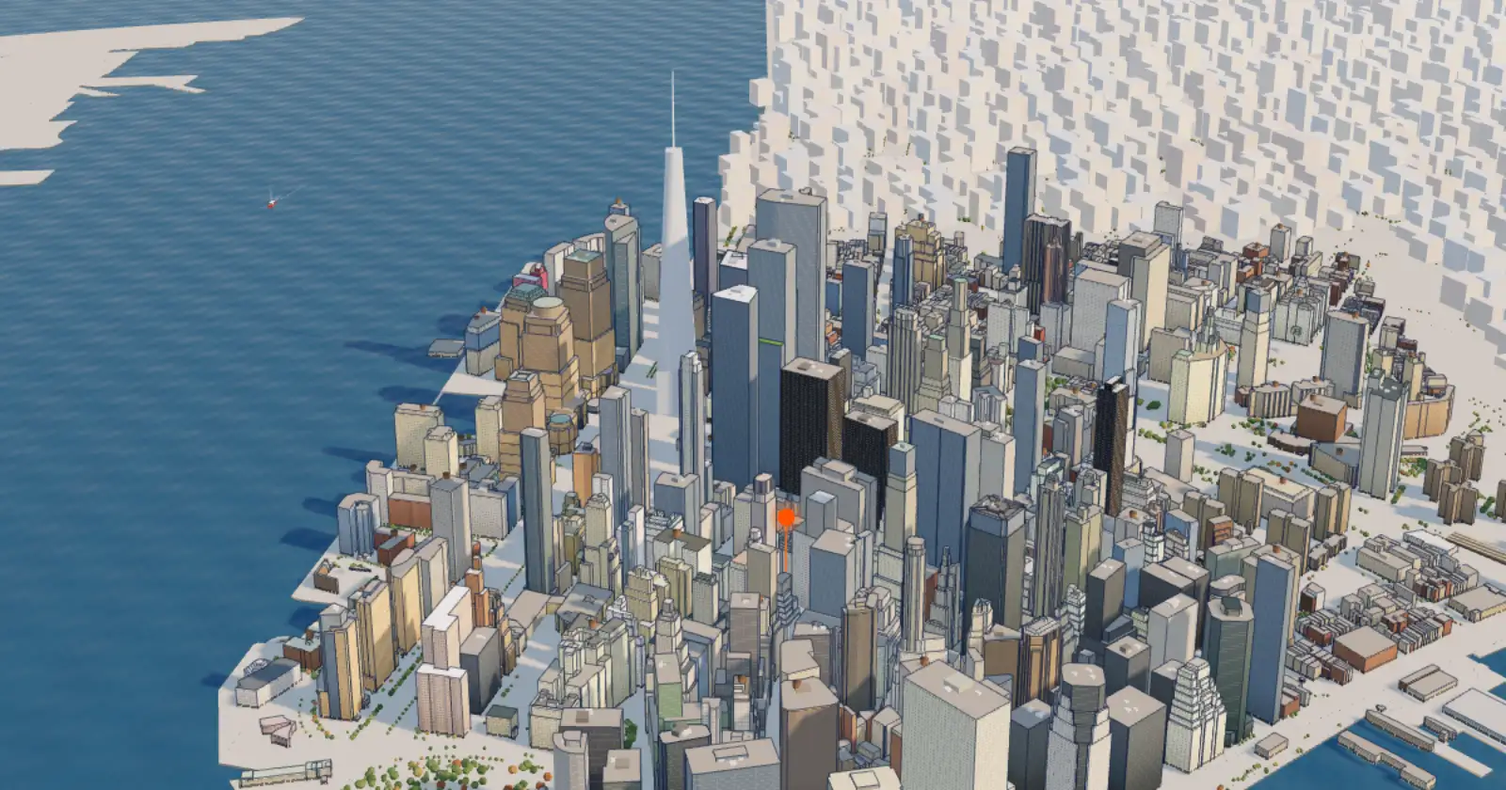
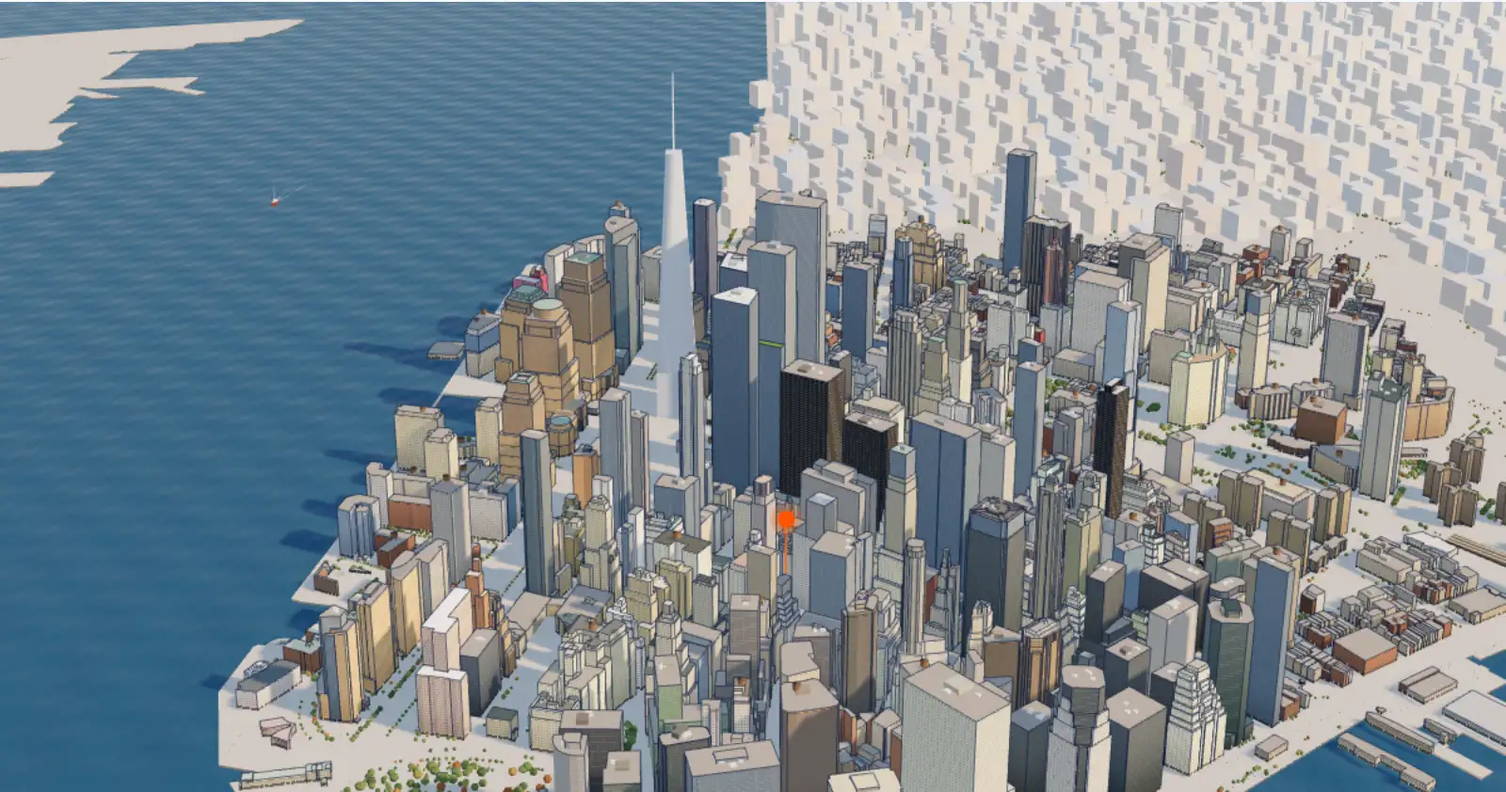
Deploy iter-119: design-review fixes, calculator CTA, consent notes, Pause motion (aerial photo held back pending licence)

diff --git a/index.html b/index.html
@@ -32,7 +32,7 @@
         </nav>
         <div class="nav-cta">
           <a class="nav-login" href="#login">Log in</a>
-          <a class="btn btn-navy btn-sm" href="#lead">Open account</a>
+          <a class="btn btn-orange btn-sm" href="#lead">Start investing</a>
         </div>
     </div>
   </header>
@@ -62,7 +62,7 @@
       <form class="capture" id="lead" novalidate>
         <label class="sr-only" for="mobile">Mobile number</label>
         <span class="capture-cc">+91</span>
-        <input id="mobile" name="mobile" type="tel" inputmode="numeric" autocomplete="tel-national" placeholder="Your mobile number" aria-describedby="lead-error" required>
+        <input id="mobile" name="mobile" type="tel" inputmode="numeric" autocomplete="tel-national" placeholder="Your mobile number" aria-describedby="lead-error lead-note" required>
         <button class="btn btn-orange" type="submit">Start investing</button>
       </form>
       <p class="capture-error" id="lead-error" role="alert" hidden>Enter a 10-digit mobile number.</p>
@@ -73,6 +73,7 @@
         </div>
         <button class="btn btn-ghost btn-sm" type="button" id="edit-number">Edit number</button>
       </div>
+      <p class="capture-note" id="lead-note">We’ll send your account-opening link to this number. No spam: by continuing you agree to be contacted about your account, as set out in our <a href="#privacy">Privacy&nbsp;Policy</a>.</p>
 
       <p class="live">
         <span class="live-dot" id="mkt-dot"></span>
@@ -85,14 +86,15 @@
         <li><b><svg viewBox="0 0 24 24" aria-hidden="true"><path d="M12 2.8 4.5 5.6v5.6c0 4.6 3.1 8.6 7.5 10 4.4-1.4 7.5-5.4 7.5-10V5.6Z"/><path d="m8.6 12.2 2.4 2.4 4.5-4.6"/></svg>IFSCA</b><span>regulated · GIFT City</span></li>
       </ul>
     </div>
+    <button class="motion-toggle" type="button" aria-pressed="false"><svg class="mt-icon" viewBox="0 0 16 16" aria-hidden="true"><path class="mt-pause" d="M5 3.5v9M11 3.5v9"/><path class="mt-play" d="M5 3.5 12.5 8 5 12.5Z"/></svg><span class="mt-label">Pause motion</span></button>
   </section>
 
   <!-- ============ BRANDS + PROOF ============ -->
-  <section class="section brands">
+  <section class="section brands" id="brands">
     <div class="wrap">
     </div>
     <div class="ticker">
-      <div class="ticker-head wrap"><p class="ticker-title" id="ticker-title">Invest in the brands you use every day</p><p class="ticker-note">Illustrative prices, not live quotes</p></div>
+      <div class="ticker-head wrap"><p class="ticker-title" id="ticker-title">Invest in the brands you use every day <span class="ticker-note">· Illustrative prices, not live quotes</span></p></div>
       <div class="ticker-viewport" role="region" aria-labelledby="ticker-title" tabindex="0">
         <div class="ticker-track">
           <ul><li><span class="logo" data-logo="apple"></span><b>Apple</b><span class="ticker-sym">AAPL</span></li><li><span class="logo" data-logo="nvidia"></span><b>NVIDIA</b><span class="ticker-sym">NVDA</span></li><li><span class="logo" data-logo="google"></span><b>Alphabet</b><span class="ticker-sym">GOOGL</span></li><li><span class="logo" data-logo="amazon"></span><b>Amazon</b><span class="ticker-sym">AMZN</span></li><li><span class="logo" data-logo="tesla"></span><b>Tesla</b><span class="ticker-sym">TSLA</span></li><li><span class="logo" data-logo="meta"></span><b>Meta</b><span class="ticker-sym">META</span></li><li><span class="logo" data-logo="netflix"></span><b>Netflix</b><span class="ticker-sym">NFLX</span></li><li><span class="logo logo-wide" data-logo="visa"></span><b>Visa</b><span class="ticker-sym">V</span></li><li><span class="logo" data-logo="broadcom"></span><b>Broadcom</b><span class="ticker-sym">AVGO</span></li><li><span class="logo" data-logo="mastercard"></span><b>Mastercard</b><span class="ticker-sym">MA</span></li><li><span class="logo" data-logo="cocacola"></span><b>Coca-Cola</b><span class="ticker-sym">KO</span></li><li><span class="logo" data-logo="starbucks"></span><b>Starbucks</b><span class="ticker-sym">SBUX</span></li><li><span class="logo" data-logo="mcdonalds"></span><b>McDonald’s</b><span class="ticker-sym">MCD</span></li><li><span class="logo logo-wide" data-logo="goldmansachs"></span><b>Goldman Sachs</b><span class="ticker-sym">GS</span></li><li><span class="logo" data-logo="americanexpress"></span><b>American Express</b><span class="ticker-sym">AXP</span></li><li><span class="logo" data-logo="bankofamerica"></span><b>Bank of America</b><span class="ticker-sym">BAC</span></li></ul>
@@ -113,7 +115,7 @@
       <figure class="session">
         <div class="session-top">
           <p class="session-status"><span class="live-dot" data-market-dot></span><b data-bind="statusShort">—</b></p>
-          <p class="session-idx">S&amp;P&nbsp;500 <span class="tk-ch" id="sess-ch">—</span></p>
+          <p class="session-idx">Sample session <span class="tk-ch" id="sess-ch">—</span></p>
         </div>
         <div class="session-plot">
           <svg class="session-chart" viewBox="0 0 1000 240" preserveAspectRatio="none" aria-hidden="true">
@@ -185,7 +187,7 @@
       <svg width="0" height="0" style="position:absolute" aria-hidden="true"><defs><linearGradient id="ring-grad" x1="0" y1="0" x2="1" y2="1"><stop offset="0" stop-color="#ff5400"/><stop offset="1" stop-color="#ff9a5c"/></linearGradient></defs></svg>
       <svg class="money-flow" viewBox="0 0 176 96" aria-hidden="true"><path d="M4 18 C 84 18, 92 78, 172 78"/><circle r="4"><animateMotion dur="2.2s" repeatCount="indefinite" path="M4 18 C 84 18, 92 78, 172 78"/></circle></svg>
       <div class="calc">
-        <div class="calc-top"><p class="calc-kicker">Fractional calculator</p><span class="frac-live"><span class="live-dot is-open"></span>Live preview</span></div>
+        <div class="calc-top"><p class="calc-kicker">Fractional calculator</p><span class="frac-live">Try it</span></div>
         <label class="calc-input" for="calc-amt"><span class="calc-label">If I invest</span><span class="calc-field"><span class="calc-cur">$</span><input id="calc-amt" type="text" inputmode="decimal" autocomplete="off" value="25" aria-describedby="calc-hint" maxlength="9"></span></label>
         <p class="calc-hint" id="calc-hint">≈ ₹<span data-bind="amtInrFinal">2,100</span> · type any amount from $1</p>
         <div class="calc-result" aria-live="polite">
@@ -198,9 +200,13 @@
             <span class="calc-px"><span data-bind="sym">NVDA</span> at $<span data-bind="px">181.40</span> a share<span class="calc-whole" data-bind="wholeNote"></span></span>
           </div>
         </div>
+        <div class="calc-go">
+          <a class="btn btn-orange calc-cta" href="#lead" id="calc-cta"><span>Start with $<span data-bind="amtFinal">25</span> in <span data-bind="stockName">NVIDIA</span></span></a>
+          <span class="calc-go-note">Free account · about 10 minutes</span>
+        </div>
         <p class="calc-pick-label">Same amount, other leaders · tap to switch</p>
         <div class="calc-pick" id="calc-pick" role="radiogroup" aria-label="Choose a company"></div>
-        <p class="fine">Reference prices, for illustration. Live prices in the app.</p>
+        <p class="fine">Reference prices, for illustration; live prices in the app. US stocks carry market and currency risk, and you can get back less than you invest.</p>
       </div>
       </div>
       <div class="product-copy">
@@ -240,7 +246,7 @@
   </section>
 
   <!-- ============ WHY ============ -->
-  <section class="section why">
+  <section class="section why" id="why">
     <div class="wrap">
       <div class="section-head">
         <p class="eyebrow">Why invest in the US</p>
@@ -261,7 +267,7 @@
         </article>
         <article class="tile tile-wide tile-warm">
           <span class="tile-fx" aria-hidden="true">₹ <i>→</i> $</span>
-          <div><h3>Hold part of your wealth in dollars</h3><p>Dollar assets cushion rupee depreciation and help with goals priced in dollars, like a child’s education abroad.</p></div>
+          <div><h3>Hold part of your wealth in dollars</h3><p>Dollar assets cushion rupee depreciation and help with goals priced in dollars, like a child’s education abroad. If the rupee strengthens instead, returns in rupees are lower.</p></div>
         </article>
         <div class="tile tile-fig"><span class="stat-num"><span class="nowrap">1–2&nbsp;days</span></span><span class="stat-label">Withdrawals credited to your Indian bank</span></div>
         <div class="tile tile-fig"><span class="stat-num">$250K</span><span class="stat-label">Yearly limit under RBI’s LRS</span></div>
@@ -277,7 +283,7 @@
           <p class="eyebrow">How it works</p>
           <h2 class="h2">Four steps to your first US stock.</h2>
         </div>
-        <a class="btn btn-orange" href="#lead">Open account</a>
+        <a class="btn btn-orange" href="#lead">Start investing</a>
       </div>
       <div class="eligibility" role="group" aria-label="Who can invest">
         <p class="eligibility-title">Who can invest</p>
@@ -327,7 +333,7 @@
   </section>
 
   <!-- ============ TRUST + ORDERS ============ -->
-  <section class="section trust">
+  <section class="section trust" id="trust">
     <div class="wrap">
       <div class="trust-split">
         <div class="section-head trust-head">
@@ -354,7 +360,7 @@
   </section>
 
   <!-- ============ POPULAR ============ -->
-  <section class="section popular">
+  <section class="section popular" id="popular">
     <div class="wrap">
       <div class="section-head section-head-row">
         <div>
@@ -431,7 +437,7 @@
             <li><strong>Transparent pricing, no hidden charges</strong><span>The full schedule is public. Your bank’s remittance charges are its own.</span></li>
             <li><strong>Dedicated support</strong><span>A global-investing desk for onboarding, remittance and tax documents.</span></li>
           </ul>
-          <a class="btn btn-orange pricing-cta" href="#lead">Open account</a>
+          <a class="btn btn-orange pricing-cta" href="#lead">Start investing</a>
           </div>
         </div>
       <div class="prices">
@@ -503,14 +509,14 @@
   </section>
 
   <!-- ============ CTA ============ -->
-  <section class="cta">
+  <section class="cta" id="start">
     <div class="wrap cta-inner">
       <h2 class="h2">Be in the market when the bell rings.</h2>
       <p class="lead">Open your global account tonight. Once you’re verified, start with $1 in any US session.</p>
       <form class="capture cta-capture" id="lead-2" novalidate>
         <label class="sr-only" for="mobile-2">Mobile number</label>
         <span class="capture-cc">+91</span>
-        <input id="mobile-2" name="mobile" type="tel" inputmode="numeric" autocomplete="tel-national" placeholder="Your mobile number" aria-describedby="lead-2-error" required>
+        <input id="mobile-2" name="mobile" type="tel" inputmode="numeric" autocomplete="tel-national" placeholder="Your mobile number" aria-describedby="lead-2-error lead-2-note" required>
         <button class="btn btn-orange" type="submit">Start investing</button>
       </form>
       <p class="capture-error" id="lead-2-error" role="alert" hidden>Enter a 10-digit mobile number.</p>
@@ -521,6 +527,7 @@
         </div>
         <button class="btn btn-ghost btn-sm" type="button" id="edit-number-2">Edit number</button>
       </div>
+      <p class="capture-note" id="lead-2-note">We’ll send your account-opening link to this number. No spam: by continuing you agree to be contacted about your account, as set out in our <a href="#privacy">Privacy&nbsp;Policy</a>.</p>
       <ul class="cta-benefits"><li>Paperless onboarding</li><li>Fractional investing</li><li>One app for India and US</li><li>Dedicated support</li></ul>
     </div>
   </section>
@@ -539,13 +546,14 @@
         <nav aria-label="Learn"><h3>Learn</h3><a href="#how">How it works</a><a href="#tax">Tax guide</a><a href="#faq">FAQs</a></nav>
         <nav aria-label="Legal"><h3>Legal</h3><a href="#terms">Terms</a><a href="#privacy">Privacy</a><a href="#disclosures">Disclosures</a><a href="#charges">Schedule of charges</a></nav>
       </div>
+      <p class="footer-motion"><button class="motion-toggle" type="button" aria-pressed="false"><svg class="mt-icon" viewBox="0 0 16 16" aria-hidden="true"><path class="mt-pause" d="M5 3.5v9M11 3.5v9"/><path class="mt-play" d="M5 3.5 12.5 8 5 12.5Z"/></svg><span class="mt-label">Pause motion</span></button></p>
       <p class="footer-fine">IFSCA Broker Dealer Registration No. [REGISTRATION NUMBER] · [REGISTERED OFFICE ADDRESS]. Investments in securities markets are subject to market risks. Read all related documents carefully before investing. Brand names and logos are for identification only and do not imply endorsement. Map data © OpenStreetMap contributors, available under the Open Database License. © 2026 Mirae Asset Capital Markets (IFSC) Private Limited.</p>
     </div>
   </footer>
 
   <div class="dock" id="dock" aria-hidden="true">
     <div class="dock-text"><strong>US stocks from $1</strong><span>₹0 account opening</span></div>
-    <a class="btn btn-orange btn-sm" href="#lead" tabindex="-1">Open account</a>
+    <a class="btn btn-orange btn-sm" href="#lead" tabindex="-1">Start investing</a>
   </div>
 
   <script type="module" src="/src/main.js"></script>

diff --git a/src/main.js b/src/main.js
@@ -4,6 +4,20 @@ import { marketStatus, cityTime, usSessionInIST, istClock, formatWait, REF_PRICE
 const $ = (s, root = document) => root.querySelector(s);
 const bind = (key, value) => document.querySelectorAll(`[data-bind="${key}"]`).forEach((el) => { el.textContent = value; });
 const reducedMotion = matchMedia('(prefers-reduced-motion: reduce)').matches;
+// ---------- Pause motion (WCAG 2.2.2): one switch stops every loop — CSS animations, the 3D harbour, the ticking prices.
+// Remembered per visitor; reduced-motion visitors start paused.
+const root = document.documentElement;
+const motionPaused = () => root.classList.contains('motion-paused');
+const setMotion = (paused) => {
+  root.classList.toggle('motion-paused', paused);
+  document.querySelectorAll('.motion-toggle').forEach((b) => { b.setAttribute('aria-pressed', String(paused)); b.querySelector('.mt-label').textContent = paused ? 'Play motion' : 'Pause motion'; });
+  window.dispatchEvent(new Event('motionchange'));
+  try { localStorage.setItem('motion-paused', paused ? '1' : '0'); } catch {}
+};
+let savedMotion = null;
+try { savedMotion = localStorage.getItem('motion-paused'); } catch {}
+setMotion(savedMotion === '1');
+document.querySelectorAll('.motion-toggle').forEach((b) => b.addEventListener('click', () => setMotion(!motionPaused())));
 document.documentElement.classList.add('js'); // reveal styles only apply when JS can undo them
 
 // ---------- Hero city
@@ -78,7 +92,7 @@ tickerItems.forEach((it) => paintQuote(it));
 let tickerOn = false;
 new IntersectionObserver(([e]) => { tickerOn = e.isIntersecting; }).observe($('.ticker'));
 setInterval(() => {
-  if (!tickerOn || document.hidden) return;
+  if (!tickerOn || document.hidden || motionPaused()) return;
   for (const sym of Object.keys(quotes).sort(() => Math.random() - 0.5).slice(0, 3)) { // a few trades per beat, like a real tape
     const q = quotes[sym], step = (Math.random() - 0.5) * 0.004;
     q.px *= 1 + step;
@@ -150,6 +164,7 @@ setInterval(tick, 20_000);
 // ---------- Funnel analytics. Events go to window.dataLayer (Google Tag Manager's standard queue), so whichever
 // analytics/A-B tool mStock uses can read them; no third-party script is loaded here. Never includes the number.
 window.dataLayer = window.dataLayer || [];
+const calcContext = {}; // set once the visitor uses the calculator: { calc_amount, calc_sym } ride along with the lead
 const track = (event, props = {}) => window.dataLayer.push({ event, ...props, variant: document.documentElement.dataset.variant || 'default' });
 const seen = new Set();
 const leadViews = new IntersectionObserver((entries) => entries.forEach((e) => {
@@ -165,9 +180,9 @@ function setupCapture(formSel, sentSel, errorSel, editSel) {
     const valid = /^[6-9]\d{9}$/.test(digits);
     error.hidden = valid;
     field.setAttribute('aria-invalid', String(!valid));
-    track(valid ? 'lead_submit_valid' : 'lead_submit_invalid', { form: form.id });
+    track(valid ? 'lead_submit_valid' : 'lead_submit_invalid', { form: form.id, ...calcContext });
     if (!valid) { field.focus(); return; }
-    // TODO(lead-endpoint): fetch('/api/leads', { method: 'POST', body: JSON.stringify({ mobile: digits, source: form.id }) })
+    // TODO(lead-endpoint): fetch('/api/leads', { method: 'POST', body: JSON.stringify({ mobile: digits, source: form.id, ...calcContext }) })
     form.hidden = true;
     sent.hidden = false;
   });
@@ -237,7 +252,7 @@ function renderAmount() {
 }
 chips.addEventListener('click', (e) => {
   const b = e.target.closest('button');
-  if (b) { amount = Number(b.dataset.v); renderAmount(); paintFrac(amount, true); $('#calc-amt').value = String(amount); }
+  if (b) { amount = Number(b.dataset.v); renderAmount(); paintFrac(amount, true); $('#calc-amt').value = String(amount); noteCalc('amount_chip'); }
 });
 paintAmount(amount);
 renderAmount();
@@ -270,7 +285,18 @@ function paintFrac(v, pop) {
   });
   if (pop && !reducedMotion) { const f1 = $('.f1'); f1.classList.remove('pop'); void f1.offsetWidth; f1.classList.add('pop'); }
 }
-pick.addEventListener('click', (e) => { const b = e.target.closest('button'); if (b) { sel = b.dataset.sym; paintFrac(amount, true); } });
+pick.addEventListener('click', (e) => { const b = e.target.closest('button'); if (b) { sel = b.dataset.sym; paintFrac(amount, true); noteCalc('calc_pick'); } });
+// Calculator events: what people try is a leading signal for who signs up (and which stocks to lead with).
+const noteCalc = (event) => { Object.assign(calcContext, { calc_amount: amount, calc_sym: sel }); track(event, { amount, sym: sel }); };
+let calcTimer = 0;
+// The calculator's answer leads straight to the form: the amount and stock travel with the lead.
+$('#calc-cta').addEventListener('click', (e) => {
+  e.preventDefault();
+  noteCalc('calc_cta_click');
+  const form = $('#lead'), field = $('#mobile');
+  form.scrollIntoView({ behavior: reducedMotion ? 'auto' : 'smooth', block: 'center' });
+  setTimeout(() => { field.focus({ preventScroll: true }); form.classList.add('is-primed'); setTimeout(() => form.classList.remove('is-primed'), 1600); }, reducedMotion ? 0 : 600);
+});
 // Typed amounts: digits and one decimal point, $1 to $1,000,000 (the order minimum and a sane ceiling).
 const calcIn = $('#calc-amt');
 calcIn.addEventListener('input', () => {
@@ -282,6 +308,7 @@ calcIn.addEventListener('input', () => {
   $('#calc-hint').lastChild.textContent = ok ? ' · type any amount from $1' : ' · the minimum is $1';
   if (!ok) return;
   amount = v; renderAmount(); paintFrac(v);
+  clearTimeout(calcTimer); calcTimer = setTimeout(() => noteCalc('calc_input'), 900); // once the visitor stops typing
 });
 calcIn.addEventListener('blur', () => { if (!(Number(calcIn.value) >= 1)) { calcIn.value = String(amount); calcIn.closest('.calc').classList.remove('is-invalid'); $('#calc-hint').lastChild.textContent = ' · type any amount from $1'; } });
 paintFrac(amount);
@@ -408,5 +435,21 @@ faqList.addEventListener('click', (e) => {
   if (!q) return;
   const open = q.getAttribute('aria-expanded') === 'true';
   q.setAttribute('aria-expanded', String(!open));
+  if (!open) track('faq_open', { question: q.textContent.trim().slice(0, 80) });
   document.getElementById(q.getAttribute('aria-controls')).classList.toggle('is-open', !open);
+});
+
+// ---------- Engagement events: which sections are seen, how far people scroll, which buttons lead to the form.
+const sectionSeen = new IntersectionObserver((entries, obs) => entries.forEach((e) => {
+  if (e.isIntersecting) { track('section_view', { section: e.target.id }); obs.unobserve(e.target); }
+}), { threshold: 0.35 });
+document.querySelectorAll('main section[id]').forEach((sec) => sectionSeen.observe(sec));
+const depths = [25, 50, 75, 100];
+window.addEventListener('scroll', () => {
+  const pct = ((window.scrollY + window.innerHeight) / document.documentElement.scrollHeight) * 100;
+  while (depths.length && pct >= depths[0] - 0.5) track('scroll_depth', { percent: depths.shift() });
+}, { passive: true });
+document.addEventListener('click', (e) => {
+  const a = e.target.closest('a[href="#lead"], a[href="#lead-2"]');
+  if (a && a.id !== 'calc-cta') track('cta_click', { label: a.textContent.trim().slice(0, 40), from: a.closest('section[id], header, footer')?.id || a.closest('header, footer')?.tagName.toLowerCase() || 'page' });
 });

diff --git a/src/style.css b/src/style.css
@@ -1120,3 +1120,58 @@ main > section:not(.hero):not(.how-dark):not(.pricing):not(.cta), body > .footer
 .proof-cards span { font-size: 13px; font-weight: 600; color: var(--slate); }
 @media (max-width: 560px) { .hero-copy > .proof-cards { gap: 8px; } .proof-cards li { padding: 10px 6px; border-radius: 14px; } .proof-cards b { font-size: 19px; } .proof-cards svg { width: 17px; height: 17px; } .proof-cards span { font-size: 11px; text-align: center; } }
 /* the water meets the page on an eased curve (no visible band) */
+
+/* iter-118: say what happens before the number is given (and get consent); the calculator hands off to the form. */
+.capture-note { margin: 10px auto 0; max-width: 560px; font-size: 12px; line-height: 1.5; color: var(--muted); }
+.capture-note a { color: inherit; text-decoration: underline; text-underline-offset: 2px; }
+#lead[hidden] ~ .capture-note, #lead-2[hidden] ~ .capture-note { display: none; } /* gone once the number is sent */
+.cta .capture-note { margin-left: 0; color: var(--on-dark-3); }
+.calc-go { display: flex; align-items: center; gap: 14px; flex-wrap: wrap; margin: 4px 0 4px; }
+.calc-cta { padding-inline: 22px; }
+.calc-go-note { font-size: 13px; font-weight: 600; color: var(--slate); }
+.capture.is-primed { box-shadow: 0 0 0 3px rgba(255, 84, 0, 0.35), var(--card-shadow); transition: box-shadow 0.4s; }
+@media (max-width: 560px) { .calc-cta { width: 100%; justify-content: center; } }
+
+/* iter-119: design-review fixes. */
+/* #2 focus stays visible on every navy surface */
+.board :focus-visible, .tile-lead :focus-visible, .dock :focus-visible { outline-color: var(--orange); }
+/* #4 one switch pauses everything; decorative loops also stop on their own after a few cycles */
+.motion-paused *, .motion-paused *::before, .motion-paused *::after { animation-play-state: paused !important; }
+.tile-marks .logo { animation-iteration-count: 3; }
+.floater, .product .phone, .product .phone-stage::after { animation-iteration-count: 4; }
+.f1.pop { animation-iteration-count: 1, 4; }
+.motion-toggle { display: inline-flex; align-items: center; gap: 8px; min-height: 44px; padding: 0 14px; border: 0; border-radius: 999px; background: rgba(255, 255, 255, 0.86); box-shadow: 0 0 0 1px var(--line); color: var(--navy); font: 600 13px var(--font); cursor: pointer; -webkit-backdrop-filter: blur(8px); backdrop-filter: blur(8px); }
+.motion-toggle:hover { background: #fff; }
+.mt-icon { width: 14px; height: 14px; fill: none; stroke: currentColor; stroke-width: 2; stroke-linecap: round; stroke-linejoin: round; }
+.mt-play { display: none; fill: currentColor; stroke: none; }
+.motion-toggle[aria-pressed="true"] .mt-pause { display: none; }
+.motion-toggle[aria-pressed="true"] .mt-play { display: inline; }
+.hero > .motion-toggle { position: absolute; left: 24px; bottom: 16px; z-index: 2; }
+.footer-motion { margin: 0 0 12px; }
+.footer-motion .motion-toggle { background: transparent; padding-left: 0; box-shadow: none; }
+@media (max-width: 900px) { .hero > .motion-toggle { top: 376px; bottom: auto; left: 12px; min-height: 36px; padding: 0 12px; } } /* on the city band, opposite the map credit */
+/* #7 the closing band's consent note sits under its centred form */
+.cta .capture-note { margin-left: auto; margin-right: auto; text-align: center; max-width: 560px; }
+/* #10 touch targets ≥ 44 px (the brief's gate) */
+.chip { height: 44px; }
+.tab { height: 44px; }
+.nav-links a, .nav-login { display: inline-flex; align-items: center; min-height: 44px; }
+.footer nav a { display: flex; align-items: center; min-height: 44px; }
+.footer nav { gap: 0; }
+@media (max-width: 900px) { .board-go { min-width: 44px; min-height: 44px; justify-content: center; } }
+/* #14 reveals capped near the large-duration token */
+.js .session .sess-reveal { transition-duration: 0.9s; }
+.ring-fill { transition-duration: 0.4s; }
+.vring, .vcore { transition-duration: 0.3s, 0.45s, 0.45s; }
+/* #17 ring labels are decorative; the numbered legend carries them on phones */
+@media (max-width: 600px) { .vring i { display: none; } }
+/* #18 the illustrative note reads with the ticker title */
+.ticker-title .ticker-note { font-weight: 600; color: var(--muted); }
+/* #10 follow-up: the last targets under 44 px, enlarged without moving anything visible */
+.btn-sm, .skip, .brand { min-height: 44px; }
+.nav-links a { padding-inline: 10px; margin-inline: -10px; } /* wider hit area, same visual spacing */
+.board-go { min-height: 44px; }
+.app-chips { gap: 5px; }
+.chip { min-width: 44px; }
+@media (max-width: 900px) { .hero > .motion-toggle { min-height: 44px; } }
+.nav-login { padding-inline: 8px; margin-inline: -8px; } /* 42 → 58 px wide hit area */

diff --git a/src/city.js b/src/city.js
@@ -615,6 +615,9 @@ export function createCity({ canvas, label, reducedMotion = false, withClouds = 
   const INTRO = 3.4;
   const v = new THREE.Vector3();
   const wake = () => { if (visible && !raf && built) raf = requestAnimationFrame(frame); };
+  // The page's Pause motion switch (WCAG 2.2.2): boats and clouds hold still; pointer and scroll still move the camera.
+  let paused = document.documentElement.classList.contains('motion-paused');
+  window.addEventListener('motionchange', () => { paused = document.documentElement.classList.contains('motion-paused'); wake(); });
 
   const onPointer = (e) => {
     if (reducedMotion) return;
@@ -647,7 +650,7 @@ export function createCity({ canvas, label, reducedMotion = false, withClouds = 
     }
 
     const now = clock.getElapsedTime();
-    if (!reducedMotion) { placeClouds(Math.min(0.1, now - lastDrift)); harbour?.step(now - lastDrift); }
+    if (!reducedMotion && !paused) { placeClouds(Math.min(0.1, now - lastDrift)); harbour?.step(now - lastDrift); }
     lastDrift = now;
 
     const dx = ptr.x - ptr.sx, dy = ptr.y - ptr.sy, ds = scroll - scrollEased;
@@ -672,7 +675,7 @@ export function createCity({ canvas, label, reducedMotion = false, withClouds = 
     }
 
     if (growing || settling) wake();
-    else if (!reducedMotion && visible && (clouds.length || harbour)) setTimeout(wake, 33);
+    else if (!reducedMotion && !paused && visible && (clouds.length || harbour)) setTimeout(wake, 33);
   }
 
   new IntersectionObserver(([entry]) => {
